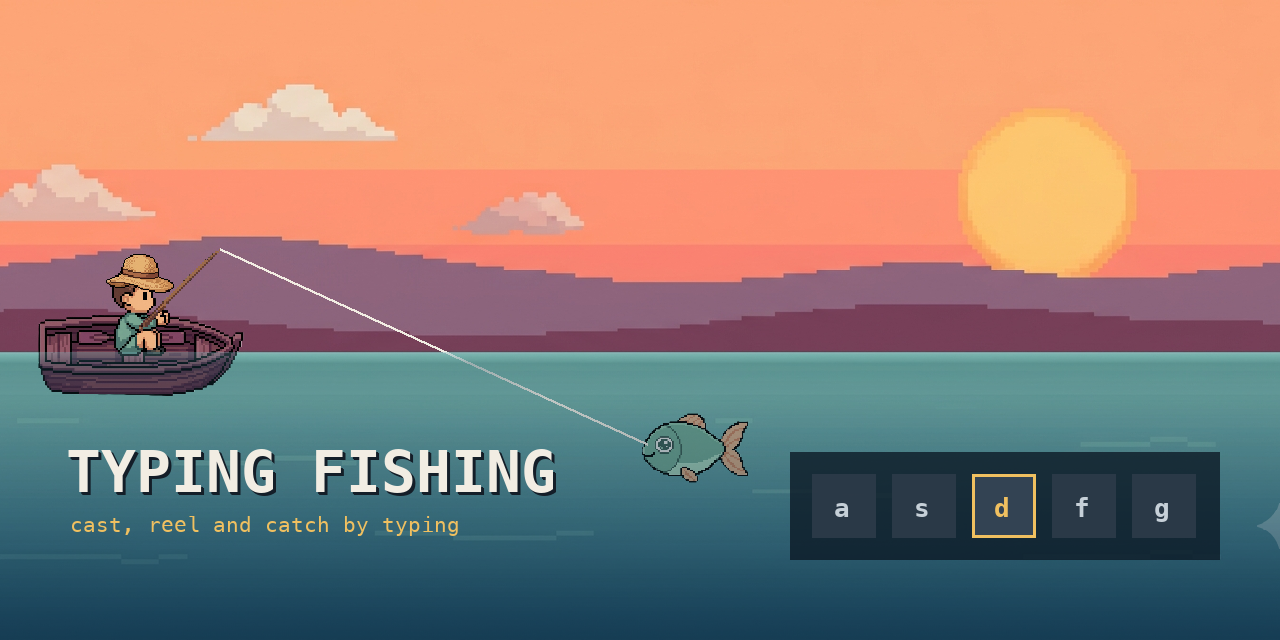
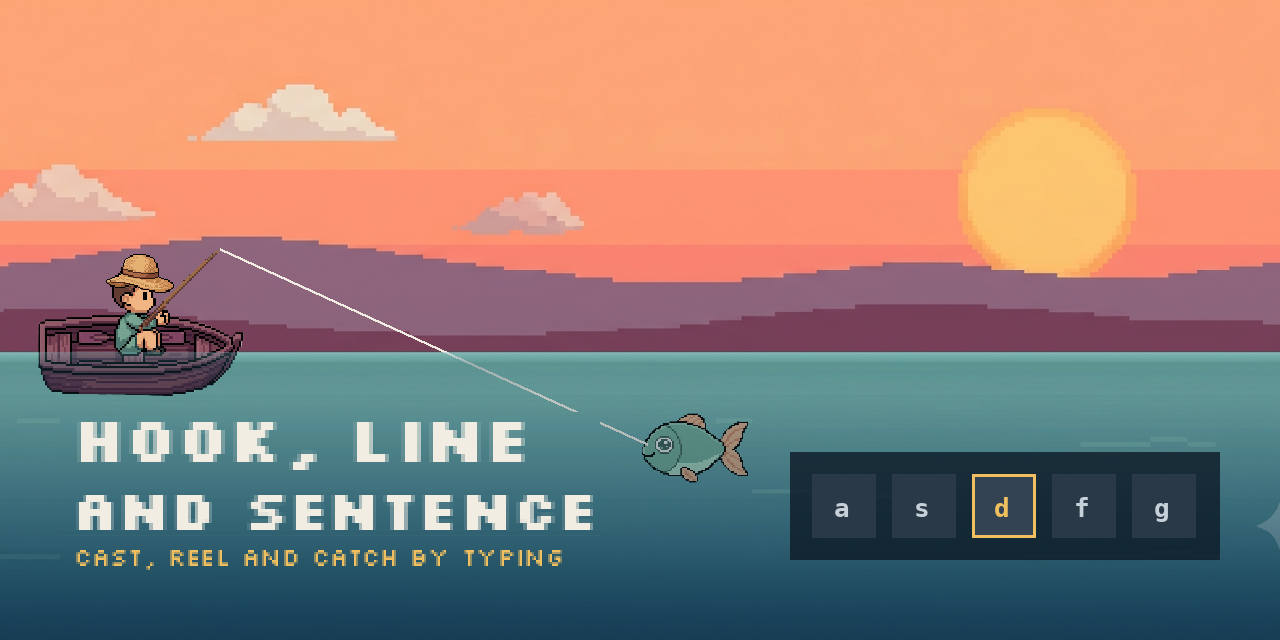
Re-letter the social preview card for the new name
The GitHub link card had "TYPING FISHING" painted into the art, so after the
rename it advertised a name that existed nowhere else in the project. It now
reads HOOK, LINE / AND SENTENCE over the same scene.

Re-lettered in Pillow rather than regenerated. The scene was fine; only the
text was wrong, and a reroll would have meant asking an image model for 23
characters of exact title plus a 30-character subtitle - spelling is the one
thing they reliably get wrong, and the old card only got away with 14
characters on one line. The text area is repainted per row from the median of
the surrounding water (it is a smooth vertical gradient, so a per-row fill
closes seamlessly where a single flat fill would not), and the title is set in
real Silkscreen - the same face as the game's own h1 - rendered small and
upscaled with NEAREST so the glyphs stay chunky.

Same 1280x640 RGB, and slightly smaller on disk than the file it replaces.

ART.md records the recipe rather than a prompt, including the safe repair rect
and the one real trap: at the first spacing tried, line one's comma landed
directly above the E of SENTENCE and read as "SENTENCE" with an accent. That is
a property of the wording, not the tool, so a reroll would hit it too.

Docs updated: ART.md marks the request landed, CLAUDE.md drops the open art
count from three to two, and HANDOFF.md records that the rename is finished
except for uploading this PNG - GitHub does not serve the social preview from
[…]

Changed region(s): [[0.0312, 0.6562, 0.4688, 0.9062]]

diff --git a/ART.md b/ART.md
@@ -276,41 +276,44 @@ same four prompts then repeat for the Stream (waders, standing) and Ocean
 (fighting chair) poses in V3, and each new shop hat or rod is one more
 reference-drawn PNG per pose.
 
-### ⚠ The social preview card, re-lettered for the new name (open)
+### ✅ The social preview card, re-lettered (landed 2026-08-31)
 
-`assets/social-preview.png` (1280×640) is the GitHub link card, and it has
-**"TYPING FISHING"** painted into the art in the Silkscreen-style pixel face,
-with `cast, reel and catch by typing` underneath. The game was renamed to
-**Hook, Line and Sentence** on 2026-08-31, so the card now advertises a name
-that exists nowhere else in the project.
+The GitHub link card had **"TYPING FISHING"** painted into the art, so after the
+rename it advertised a name that existed nowhere else in the project. It is now
+`HOOK, LINE` / `AND SENTENCE` over the same scene.
 
-The scene itself (sunset sky, angler in the rowboat at left, hooked fish on the
-line, `a s d f g` key caps at lower right) is good and should be kept — this is
-a **re-letter, not a re-shoot**. The new name is 23 characters against the old
-14, so it wants two lines where the old one had one.
+**This one was not generated — it was re-lettered in Pillow, and that was the
+right call.** The scene was fine; only the text was wrong. Asking Gemini to
+re-shoot it means asking for 23 characters of exact title plus a 30-character
+subtitle, and spelling is the one thing image models reliably get wrong — the
+old card got away with 14 characters on one line. Compositing is exact by
+construction and re-runnable in seconds if the wording ever changes.
 
-When the PNG lands it also has to be uploaded by hand: GitHub's social preview
-lives in repo **Settings → General → Social preview**, not in the repo tree, so
-committing the file is only half the job.
+The recipe, should the name or tagline ever move again:
 
-```
-ART NEEDED: the social preview card, re-lettered
-File:     assets/social-preview.png  (replaces the existing one, same 1280x640)
-Prompt:   Pixel art wide banner for a cozy kids fishing game, 1280x640, sunset
-          lake scene: warm orange-to-peach sky, low sun at right, muted purple
-          hills, teal water across the bottom half, a kid in a straw hat fishing
-          from a wooden rowboat at the left, a fishing line running down-right
-          to a small green hooked fish. At lower right, five dark rounded key
-          caps reading a s d f g with the d key outlined in gold. Chunky clean
-          pixels. Large chunky pixel-font title text at lower left reading
-          "HOOK, LINE" on the first line and "AND SENTENCE" on the second,
-          cream white, with a smaller gold subtitle under it reading
-          "cast, reel and catch by typing". Both lines of the title left-aligned
-          and the same size as each other.
-Note:     match the existing assets/social-preview.png composition — this is the
-          same picture with new lettering. Keep the title clear of the boat and
-          the key caps.
-```
+1. **Repaint the text area per row.** The title sits on open water, which is a
+   smooth *vertical* gradient — so for each row take the median colour of the
+   non-text pixels in `x 250..600` and flood that row across the repair rect.
+   The seam is invisible; a single flat fill for the whole block is not.
+2. **Know what you must not paint over.** The safe rect is `x 60..600,
+   y 412..576`: the boat ends at y≈390, the key-cap panel starts at x≈790, and
+   the fishing line only enters that x-range below y≈445. Verify with a
+   bright-pixel scan before filling, not by eye.
+3. **Set the type in real Silkscreen** — the same face as the game's `<h1>`,
+   fetched from the Google Fonts CDN. Render it *small* and upscale
+   `Image.NEAREST` (4× for the title, 2× for the subtitle) so the glyphs stay
+   chunky instead of anti-aliased.
+4. **Mind the comma.** At the first spacing tried, line one's comma in
+   "HOOK," landed directly above the E of "SENTENCE" and read as **SÉNTENCE**.
+   That is a property of this wording, not of the tool — a Gemini reroll would
+   hit it too. A wider line gap (title lines at y=418 and y=492) fixes it.
+
+Title colour `#F2EDE4`, subtitle gold `#F0C060`, both sampled from the original
+card. The script is scratchpad-only, like the transparency salvage script above.
+
+**Still needs a human:** GitHub's social preview is *not* served from the repo
+tree, so committing the PNG is only half the job — upload it at
+**Settings → General → Social preview**.
 
 ### ⚠ The Stream scene, re-shot — the one open request
 

diff --git a/HANDOFF.md b/HANDOFF.md
@@ -69,24 +69,31 @@ register by construction.
 
 ## Open threads / waiting on Matt
 
-- **The rename is live** (2026-08-31). Repo (#50), Firebase authorized domain,
-  Netlify project rename, and a published production deploy are all done, and
-  Matt verified sign-in on the new URL. The game is at
-  **https://hook-line-and-sentence.netlify.app**. Netlify does *not* redirect
-  the freed `fishtyping` subdomain and it is claimable by anyone, so any old
-  bookmark is dead. **Only the GitHub side is left:** rename the repo to
-  `hook-line-and-sentence`, and re-upload the social preview (Settings →
-  General → Social preview) once the re-lettered PNG lands — the current card
-  still says "TYPING FISHING". Old repo URLs redirect, so existing clones keep
-  working.
-- **Two rename steps a web session cannot do, so don't burn time trying**
+- **The rename is done** (2026-08-31), with exactly one manual step left. Landed:
+  the codebase and docs (#50), the Firebase authorized domain, the Netlify
+  project rename, a published production deploy with sign-in verified on the new
+  URL, the GitHub repo rename, the About-panel Website link, and the re-lettered
+  social preview PNG. The game is at
+  **https://hook-line-and-sentence.netlify.app** and the repo is
+  `mattohara42/hook-line-and-sentence` (old URLs redirect, so existing clones
+  keep working). Netlify does *not* redirect the freed `fishtyping` subdomain
+  and it is claimable by anyone, so any old bookmark is dead.
+  **The one step left: upload `assets/social-preview.png` at GitHub → Settings →
+  General → Social preview.** GitHub does not serve that image from the repo
+  tree, so committing it is only half the job and the link card keeps showing
+  the old one until someone uploads it.
+- **Three rename steps a web session cannot do, so don't burn time trying**
   (learned 2026-08-31). **Netlify deploys**: `api.netlify.com` and
   `netlify-mcp.netlify.app` are both refused by the sandbox egress policy (403
   on CONNECT), so the MCP deploy path dies with a bare `Failed to deploy site:
   403 Forbidden`. Renaming the *project* works fine, because that goes over the
   MCP server rather than a direct upload — "Netlify works" and "Netlify deploys
   work" are different claims here. **GitHub repo rename**: no `gh` CLI, and the
-  GitHub MCP server has no repo-edit operation. Both are console steps.
+  GitHub MCP server has no repo-edit operation — that also rules out setting the
+  About-panel description, topics and Website link, and direct `api.github.com`
+  calls come back `403: GitHub access is not enabled for this session` even
+  though the host resolves. **Social preview upload**: not in the repo tree at
+  all. All three are console steps.
 - **V2 art — four prompts in `ART.md`, and the order matters.**
   `body-kid-boat.png` (open C-curl hand) is generated first, then
   `hand-kid-boat.png`, `hat-straw.png` and `rod-basic.png` are each generated

diff --git a/CLAUDE.md b/CLAUDE.md
@@ -8,9 +8,8 @@ sentences, WPM-as-goal) — **A0–A8 all shipped 2026-08-22, epic complete.**
 All Advanced Progression art has landed. The current epic is the **Visual
 Rework** — `BUILD_PLAN_VISUAL.md` (V1 done, V2 next), which supersedes
 `BUILD_PLAN_GRAPHICS.md` after G1's layered angler didn't hold up in play.
-Three art requests are open in `ART.md`: V2's four reference-drawn angler
-pieces, a re-shot Stream background that V3 needs, and the social preview card
-re-lettered for the new name. A real kid playtest of the A7
+Two art requests are open in `ART.md`: V2's four reference-drawn angler
+pieces, and a re-shot Stream background that V3 needs. A real kid playtest of the A7
 fight beats is still outstanding (see `BACKLOG.md`).
 Work on exactly one milestone at a time. `ART.md` is the art pipeline: Claude
 writes Gemini prompts + filenames, Matt generates the PNGs.
